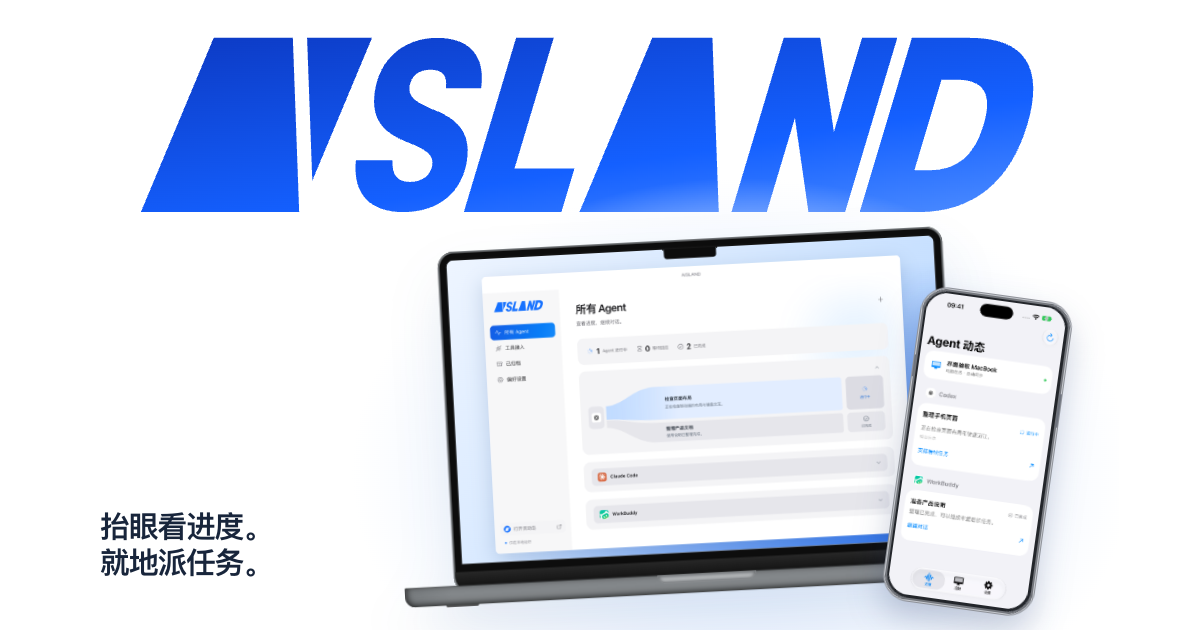
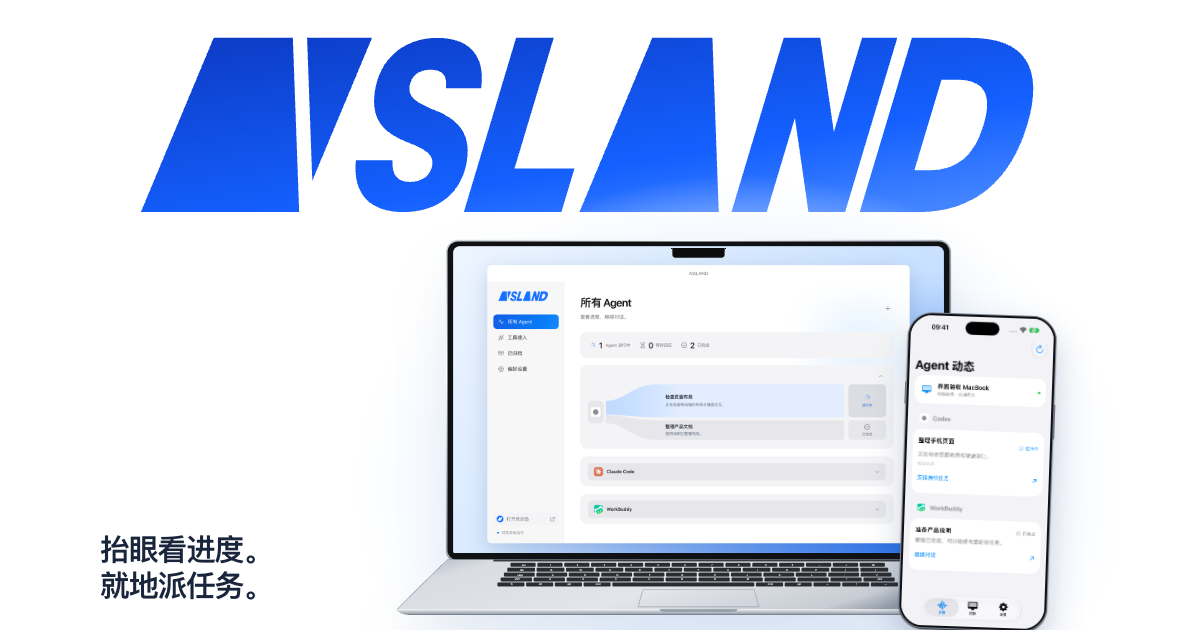
Open a live task ribbon preview on island arrival and refine device frames

diff --git a/public/index.html b/public/index.html
@@ -7,8 +7,8 @@
 <meta name="theme-color" content="#ffffff"><link rel="canonical" href="https://calibg.github.io/agent-island/">
 <meta property="og:type" content="website"><meta property="og:title" content="AISLAND - 任务上岛，专注不离场。"><meta property="og:description" content="少一点切换，多一点专注。macOS 与 Windows 桌面灵动岛。"><meta property="og:url" content="https://calibg.github.io/agent-island/"><meta property="og:image" content="https://calibg.github.io/agent-island/assets/social.png?v=studio-2"><meta name="twitter:card" content="summary_large_image">
 <link rel="icon" type="image/svg+xml" href="./assets/icon.svg"><link rel="stylesheet" href="./vendor/devices-macbook.css"><link rel="stylesheet" href="./marketing.css?v=studio-2"><link rel="stylesheet" href="./ui/hover-buttons.css"><link rel="stylesheet" href="./experience.css?v=studio-2">
-<link rel="stylesheet" href="./convergence.css"><link rel="stylesheet" href="./agent-marquee.css"><link rel="stylesheet" href="./stack.css">
-<script src="./site.js?v=studio-2" defer></script><script src="./convergence.js" defer></script><script src="./agent-marquee.js" defer></script><script src="./stack.js" defer></script><script type="module" src="./ui/hover-buttons.js"></script>
+<link rel="stylesheet" href="./convergence.css"><link rel="stylesheet" href="./agent-marquee.css"><link rel="stylesheet" href="./stack.css"><link rel="stylesheet" href="./studio.css">
+<script src="./site.js?v=studio-2" defer></script><script src="./convergence.js?v=studio3" defer></script><script src="./agent-marquee.js" defer></script><script src="./stack.js" defer></script><script type="module" src="./ui/hover-buttons.js"></script>
 </head>
 <body>
 <svg class="symbol-library" aria-hidden="true" xmlns="http://www.w3.org/2000/svg"><defs><symbol id="icon-apple" viewBox="0 0 24 24"><path fill="currentColor" d="M17.05 12.3c.03 3.2 2.81 4.26 2.84 4.27-.02.08-.44 1.52-1.46 3.01-.89 1.29-1.81 2.58-3.26 2.61-1.42.03-1.88-.84-3.5-.84-1.63 0-2.14.81-3.48.87-1.4.05-2.46-1.4-3.35-2.68-1.82-2.63-3.2-7.44-1.33-10.68.93-1.61 2.59-2.63 4.39-2.66 1.37-.03 2.66.92 3.5.92.83 0 2.4-1.14 4.04-.97.69.03 2.63.28 3.88 2.11-.1.07-2.31 1.35-2.27 4.04ZM14.4 4.4c.74-.9 1.23-2.15 1.1-3.4-1.06.04-2.35.71-3.11 1.61-.68.79-1.28 2.06-1.12 3.28 1.19.09 2.4-.61 3.13-1.49Z"/></symbol><symbol id="icon-windows" viewBox="0 0 24 24"><path fill="currentColor" d="M2 4.5 10.5 3.3v8H2zm10-1.4L22 1.7v9.6H12zM2 12.8h8.5v8L2 19.6zm10 0h10v9.5L12 20.9z"/></symbol><symbol id="icon-arrow" viewBox="0 0 24 24"><path d="M5 12h14m-6-6 6 6-6 6" fill="none" stroke="currentColor" stroke-width="1.7" stroke-linecap="round" stroke-linejoin="round"/></symbol><symbol id="icon-expand" viewBox="0 0 24 24"><path d="M8 4H4v4m12-4h4v4M4 16v4h4m12-4v4h-4" fill="none" stroke="currentColor" stroke-width="1.7" stroke-linecap="round"/></symbol></defs></svg>
@@ -66,7 +66,7 @@
     </div>
     <div class="convergence-stage" role="group" aria-label="点选电脑四周的品牌标志，看它飞入屏幕顶端的小岛">
       <div class="convergence-horizon" aria-hidden="true"></div>
-      <div class="convergence-rig" aria-hidden="true">
+      <div class="convergence-rig">
         <div class="convergence-display">
           <div class="convergence-desktop">
             <img class="convergence-window" src="./assets/sessions-560.png" width="560" height="370" alt="" loading="lazy">
@@ -75,7 +75,15 @@
                 <img class="convergence-notch" src="./assets/island-collapsed.png" width="492" height="66" alt="">
                 <span class="convergence-receipt"><img class="convergence-last" width="16" height="16" alt="" hidden><span class="convergence-model"></span><b class="convergence-count">0 / 8</b></span>
               </div>
-              <div class="convergence-collection"></div>
+              <div class="convergence-collection"></div><button type="button" class="island-work" aria-label="放大示例任务分支"><svg viewBox="0 0 760 173" aria-hidden="true"><defs>
+<linearGradient id="work-blue"><stop stop-color="#267dff" stop-opacity=".7"/><stop offset=".45" stop-color="#4b9aff" stop-opacity=".32"/><stop offset="1" stop-color="#4b9aff" stop-opacity=".12"/></linearGradient>
+<linearGradient id="work-light"><stop stop-color="#75b3ff" stop-opacity="0"/><stop offset=".5" stop-color="#a1caff" stop-opacity=".58"/><stop offset="1" stop-color="#75b3ff" stop-opacity="0"/></linearGradient>
+<path id="work-active" d="M94 59C160 59 172 5 250 5H742Q752 5 752 15V84Q752 94 742 94H250C171 94 164 86 94 86Z"/><clipPath id="work-clip"><use href="#work-active"/></clipPath></defs>
+<rect x="2" y="47" width="80" height="80" rx="21" fill="#eee"/><image class="work-agent" x="15" y="60" width="54" height="54"/>
+<use href="#work-active" fill="url(#work-blue)"/><g clip-path="url(#work-clip)"><rect class="sweep" x="-650" width="650" height="97" fill="url(#work-light)"/></g>
+<path d="M94 94C160 94 177 104 250 104H742Q752 104 752 113V158Q752 168 742 168H250C168 168 162 116 94 116Z" fill="#28292d"/>
+<text class="work-title" x="270" y="59">整理资料</text><text x="635" y="59">进行中</text><text class="done-title" x="270" y="145">检查清单</text><text x="635" y="145">已完成</text>
+</svg></button>
             </div>
           </div>
         </div>
@@ -121,6 +129,7 @@
         </button>
       </div>
     </div>
+    <dialog class="work-detail" aria-label="示例任务分支"><header><strong></strong><button type="button" aria-label="关闭任务预览">关闭</button></header><div class="work-detail-stage"></div></dialog>
     <p class="visually-hidden" role="status" aria-live="polite" aria-atomic="true" data-convergence-status></p>
     <noscript><p>开启 JavaScript 即可点选 Logo 体验上岛。</p></noscript>
   </section>

diff --git a/public/studio.css b/public/studio.css
@@ -1,0 +1,38 @@
+.device-stage { aspect-ratio:740/462; }
+.device.device-macbook-pro { height:462px; background:url("./assets/studio-notebook.svg") center/100% 100% no-repeat; }
+.device.device-macbook-pro .device-frame { background:none;box-shadow:none;padding-bottom:0;height:395px; }
+.device.device-macbook-pro .device-power,.device.device-macbook-pro .device-frame::after {display:none;}
+.device .device-screen {border:0;border-radius:8px 8px 2px 2px;}
+.hero-mac {transform:translate3d(var(--mac-x,0),var(--mac-y,0),0);}
+.hero-phone {transform:translate3d(var(--phone-x,0),var(--phone-y,0),0) rotate(2deg);}
+.phone-device {padding:2.1%;background:linear-gradient(113deg,#424752,#e9ecf0 12%,#858c96 25%,#3e424b 54%,#b3b9c3 74%,#505661);box-shadow:inset 0 0 0 1px #7d838b,0 1px 1px #292d32;}
+.phone-screen {box-shadow:0 0 0 2px #101116; }
+.phone-zoom,.phone-zoom:hover {transform:none;}
+.convergence-stage {background:radial-gradient(ellipse at 52% 68%,#d2def1 0,#eef2f7 42%,#f6f7f9 72%);}
+.convergence-horizon {inset:76% 22% 10%;border-radius:50%;background:#8398b243;filter:blur(18px);box-shadow:none;}
+.convergence-rig {width:min(53%,680px);aspect-ratio:740/462;background:url("./assets/studio-notebook.svg") center/contain no-repeat;}
+.convergence-rig::before,.convergence-base {display:none;}
+.convergence-display {position:absolute;inset:1.948% 9.46% 16.88%;padding:0;border:0;box-shadow:none;background:none;}
+.convergence-desktop {width:100%;height:100%;aspect-ratio:auto;border-radius:1cqw 1cqw .2cqw .2cqw;}
+.convergence-receiver:has(.convergence-collection img) {width:78%;max-width:390px;}
+.island-work {display:none;}
+.convergence-receiver:has(.convergence-collection img) .island-work {display:block;padding:0 4% 3%;animation:reveal-network .32s ease-out;}
+.island-work svg {display:block;width:100%;height:auto;}
+.island-work text {font:550 24px system-ui,sans-serif;fill:#e7efff;}
+.island-work .sweep {animation:work-current 2.8s linear infinite;}
+@keyframes work-current {0%{transform:translateX(0);opacity:0}12%,88%{opacity:1}100%{transform:translateX(1800px);opacity:0}}
+@keyframes reveal-network {from{opacity:0;transform:translateY(-4px)}to{opacity:1;transform:none}}
+@media(max-width:740px){.convergence-rig{width:69%;}}
+@media(prefers-reduced-motion:reduce){.island-work .sweep{opacity:0;animation:none;}}
+.island-work {width:100%;border:0;color:white;background:transparent;cursor:zoom-in;}
+.work-detail {width:min(670px,92vw);padding:22px;border:0;border-radius:22px;background:#0b0c0e;color:white;box-shadow:0 24px 80px #1a223455;}
+.work-detail::backdrop {background:#26324870;backdrop-filter:blur(8px);}
+.work-detail header {display:flex;align-items:center;justify-content:space-between;margin-bottom:18px;}
+.work-detail button {border:0;border-radius:24px;padding:9px 16px;background:#262930;color:white;}
+.work-detail-stage svg {width:100%;height:auto;}
+.work-detail-stage text {font:550 24px system-ui,sans-serif;fill:#e7efff;}
+.work-detail-stage .sweep {animation:work-current 2.8s linear infinite;}
+@media(prefers-reduced-motion:reduce){.work-detail-stage .sweep{animation:none;opacity:0;}}
+.convergence-receiver:has(.convergence-collection img) .convergence-mouth {width:min(100%,155px);}
+.experience-monitor {background:linear-gradient(115deg,#c4c9d1,#fbfcfe 18%,#959ca7 60%,#555e6b);padding:2px 2px 0;box-shadow:0 14px 38px #283c591f;}
+.experience-screen {border:4px solid #151619;border-bottom:0;}

diff --git a/public/convergence.js b/public/convergence.js
@@ -93,7 +93,7 @@
       ink.beginPath();
       ink.moveTo(prev.x, prev.y);
       ink.lineTo(next.x, next.y);
-      ink.strokeStyle = 'rgba(174,219,255,' + alpha * .94 + ')';
+      ink.strokeStyle = 'rgba(39,113,244,' + alpha * .94 + ')';
       ink.lineWidth = (.66 + alpha * 3.65) * (1 - t * .36);
       ink.stroke();
       prev = next;
@@ -135,6 +135,29 @@
     actionText.textContent = group ? '正在汇入' : landed.size === origins.length ? '重新体验' : '全部上岛';
   }
 
+  const work = section.querySelector('.island-work');
+  const diagram = work.querySelector('svg');
+  const detail = section.querySelector('.work-detail');
+  const examples = {
+    MiniMax: ['整理素材', '检查文件'],
+    Gemini: ['分析图表', '读取数据'],
+    Claude: ['审阅文稿', '整理提纲'],
+    Grok: ['汇总动态', '提取关键词'],
+    智谱: ['生成摘要', '梳理目录'],
+    通义千问: ['校对译文', '提取术语'],
+    GPT: ['检查代码', '读取项目'],
+    DeepSeek: ['分析日志', '筛选记录']
+  };
+  work.addEventListener('click', () => {
+    detail.querySelector('.work-detail-stage').append(diagram);
+    detail.showModal();
+  });
+  detail.querySelector('button').addEventListener('click', () => detail.close());
+  detail.addEventListener('close', () => {
+    work.append(diagram);
+    work.focus({preventScroll:true});
+  });
+
   function receive(origin) {
     flights.get(origin)?.tile?.remove();
     flights.delete(origin);
@@ -150,6 +173,12 @@
       collection.append(logo);
       landed.add(origin);
     }
+    section.querySelector('.work-agent').setAttribute('href', source);
+    const [running, done] = examples[name] || ['整理资料', '检查清单'];
+    diagram.querySelector('.work-title').textContent = running;
+    diagram.querySelector('.done-title').textContent = done;
+    detail.querySelector('strong').textContent = name + ' · 示例任务';
+    work.setAttribute('aria-label', name + '，' + running + '进行中。放大示例任务分支');
     lastImage.src = source;
     lastImage.hidden = false;
     label.textContent = name;
